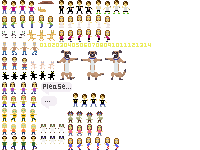
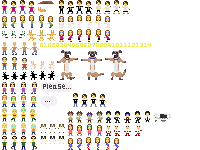
hockey scene done

Changed region(s): [[0.51, 0.72, 0.75, 0.9067], [0.78, 0.7467, 0.87, 0.8267]]

diff --git a/demo/sarah/SpriteFactory.js b/demo/sarah/SpriteFactory.js
@@ -513,7 +513,77 @@
 				},
 				position: position || L7.p(0, 0)
 			});
+		},
+
+		avPlayer: function(position) {
+			return new L7.Actor({
+				framesConfig: {
+					src: this.image,
+					width: 10,
+					height: 13,
+					direction: 'horizontal',
+					sets: [[0], [1, 2, 3]],
+					initialSet: 0,
+					initialFrame: 0,
+					anchor: L7.p(0, 0),
+					offset: L7.p(104, 111)
+				},
+				position: position || L7.p(0, 0)
+			});
+		},
+
+		redwingPlayer: function(position) {
+			return new L7.Actor({
+				framesConfig: {
+					src: this.image,
+					width: 10,
+					height: 13,
+					direction: 'horizontal',
+					sets: [[0], [1, 2, 3]],
+					initialSet: 0,
+					initialFrame: 0,
+					anchor: L7.p(0, 0),
+					offset: L7.p(104, 123)
+				},
+				position: position || L7.p(0, 0)
+			});
+		},
+
+		hockeyRef: function(position) {
+			return new L7.Actor({
+				framesConfig: {
+					src: this.image,
+					width: 10,
+					height: 13,
+					direction: 'horizontal',
+					sets: [[0], [0]],
+					initialSet: 0,
+					initialFrame: 0,
+					anchor: L7.p(0, 0),
+					offset: L7.p(144, 111)
+				},
+				position: position || L7.p(0, 0)
+			});
+		},
+
+		chipotleBlimp: function(position) {
+			return new L7.Actor({
+				framesConfig: {
+					src: this.image,
+					width: 19,
+					height: 9,
+					direction: 'horizontal',
+					sets: [[0], [0]],
+					initialSet: 0,
+					initialFrame: 0,
+					anchor: L7.p(0, 0),
+					offset: L7.p(153, 113)
+				},
+				position: position || L7.p(0, 0)
+			});
 		}
+
+
 	};
 
 })();

diff --git a/demo/sarah/boards/Hockey.js b/demo/sarah/boards/Hockey.js
@@ -8,8 +8,11 @@
 		var sarah = spriteFactory.sarah(L7.p(30, 21));
 		var phil = spriteFactory.phil(L7.p(40, 21));
 		var emily = spriteFactory.emily(L7.p(7, 21));
+		var blimp = spriteFactory.chipotleBlimp(L7.p(-10, 2));
+		blimp.smoothMovement = true;
+		blimp.rate = 200;
 
-		bgBoard.addActors(matt, sarah, phil, emily);
+		bgBoard.addActors(matt, sarah, phil, emily, blimp);
 
 		bgBoard.ani.frame({
 			targets: [matt, sarah, phil, emily],
@@ -19,9 +22,32 @@
 			loops: Infinity
 		});
 
+		blimp.ani.repeat(50, function(ani) {
+			ani.invoke(function() {
+				blimp.right(1);
+			});
+			ani.wait(200);
+		});
+
 		var fgLevelLoader = new L7.ColorLevelLoader(fgImage, tileSize, 0);
 		var fgBoard = fgLevelLoader.load();
 		fgBoard.parallaxRatio = 0;
+
+		var avPlayer1 = spriteFactory.avPlayer(L7.p(7, 40));
+		var avPlayer2 = spriteFactory.avPlayer(L7.p(18, 38));
+		var rwPlayer1 = spriteFactory.redwingPlayer(L7.p(33, 36));
+		var rwPlayer2 = spriteFactory.redwingPlayer(L7.p(43, 41));
+		var ref = spriteFactory.hockeyRef(L7.p(25, 45));
+
+		fgBoard.addActors(avPlayer1, avPlayer2, rwPlayer1, rwPlayer2, ref);
+		fgBoard.ani.frame({
+			targets: [avPlayer1, avPlayer2, rwPlayer1, rwPlayer2],
+			pieceSetIndex: 1,
+			rate: 150,
+			looping: 'backforth',
+			loops: Infinity
+		});
+
 
 		return new L7.ParallaxBoard({
 			boards: [bgBoard, fgBoard]

diff --git a/demo/sarah/sam.js b/demo/sarah/sam.js
@@ -54,7 +54,11 @@
 				board: new SAM.Intro(images.intro, tileSize, spriteFactory),
 				transitionIn: 'fade',
 				transitionInDuration: 1000,
-				duration: 20000
+				duration: 2000
+			},
+			{
+				board: new SAM.Hockey(images.hockeyBg, images.hockeyFg, tileSize, spriteFactory),
+				duration: 10000
 			},
 			{
 				board: new SAM.Race(images.race, tileSize, spriteFactory),
@@ -87,10 +91,6 @@
 			{
 				board: new SAM.CatLine(tileSize, spriteFactory),
 				duration: 8000
-			},
-			{
-				board: new SAM.Hockey(images.hockeyBg, images.hockeyFg, tileSize, spriteFactory),
-				duration: 10000
 			},
 			{
 				board: new SAM.UpperPeninsula(images.upperPeninsula, tileSize, spriteFactory),
